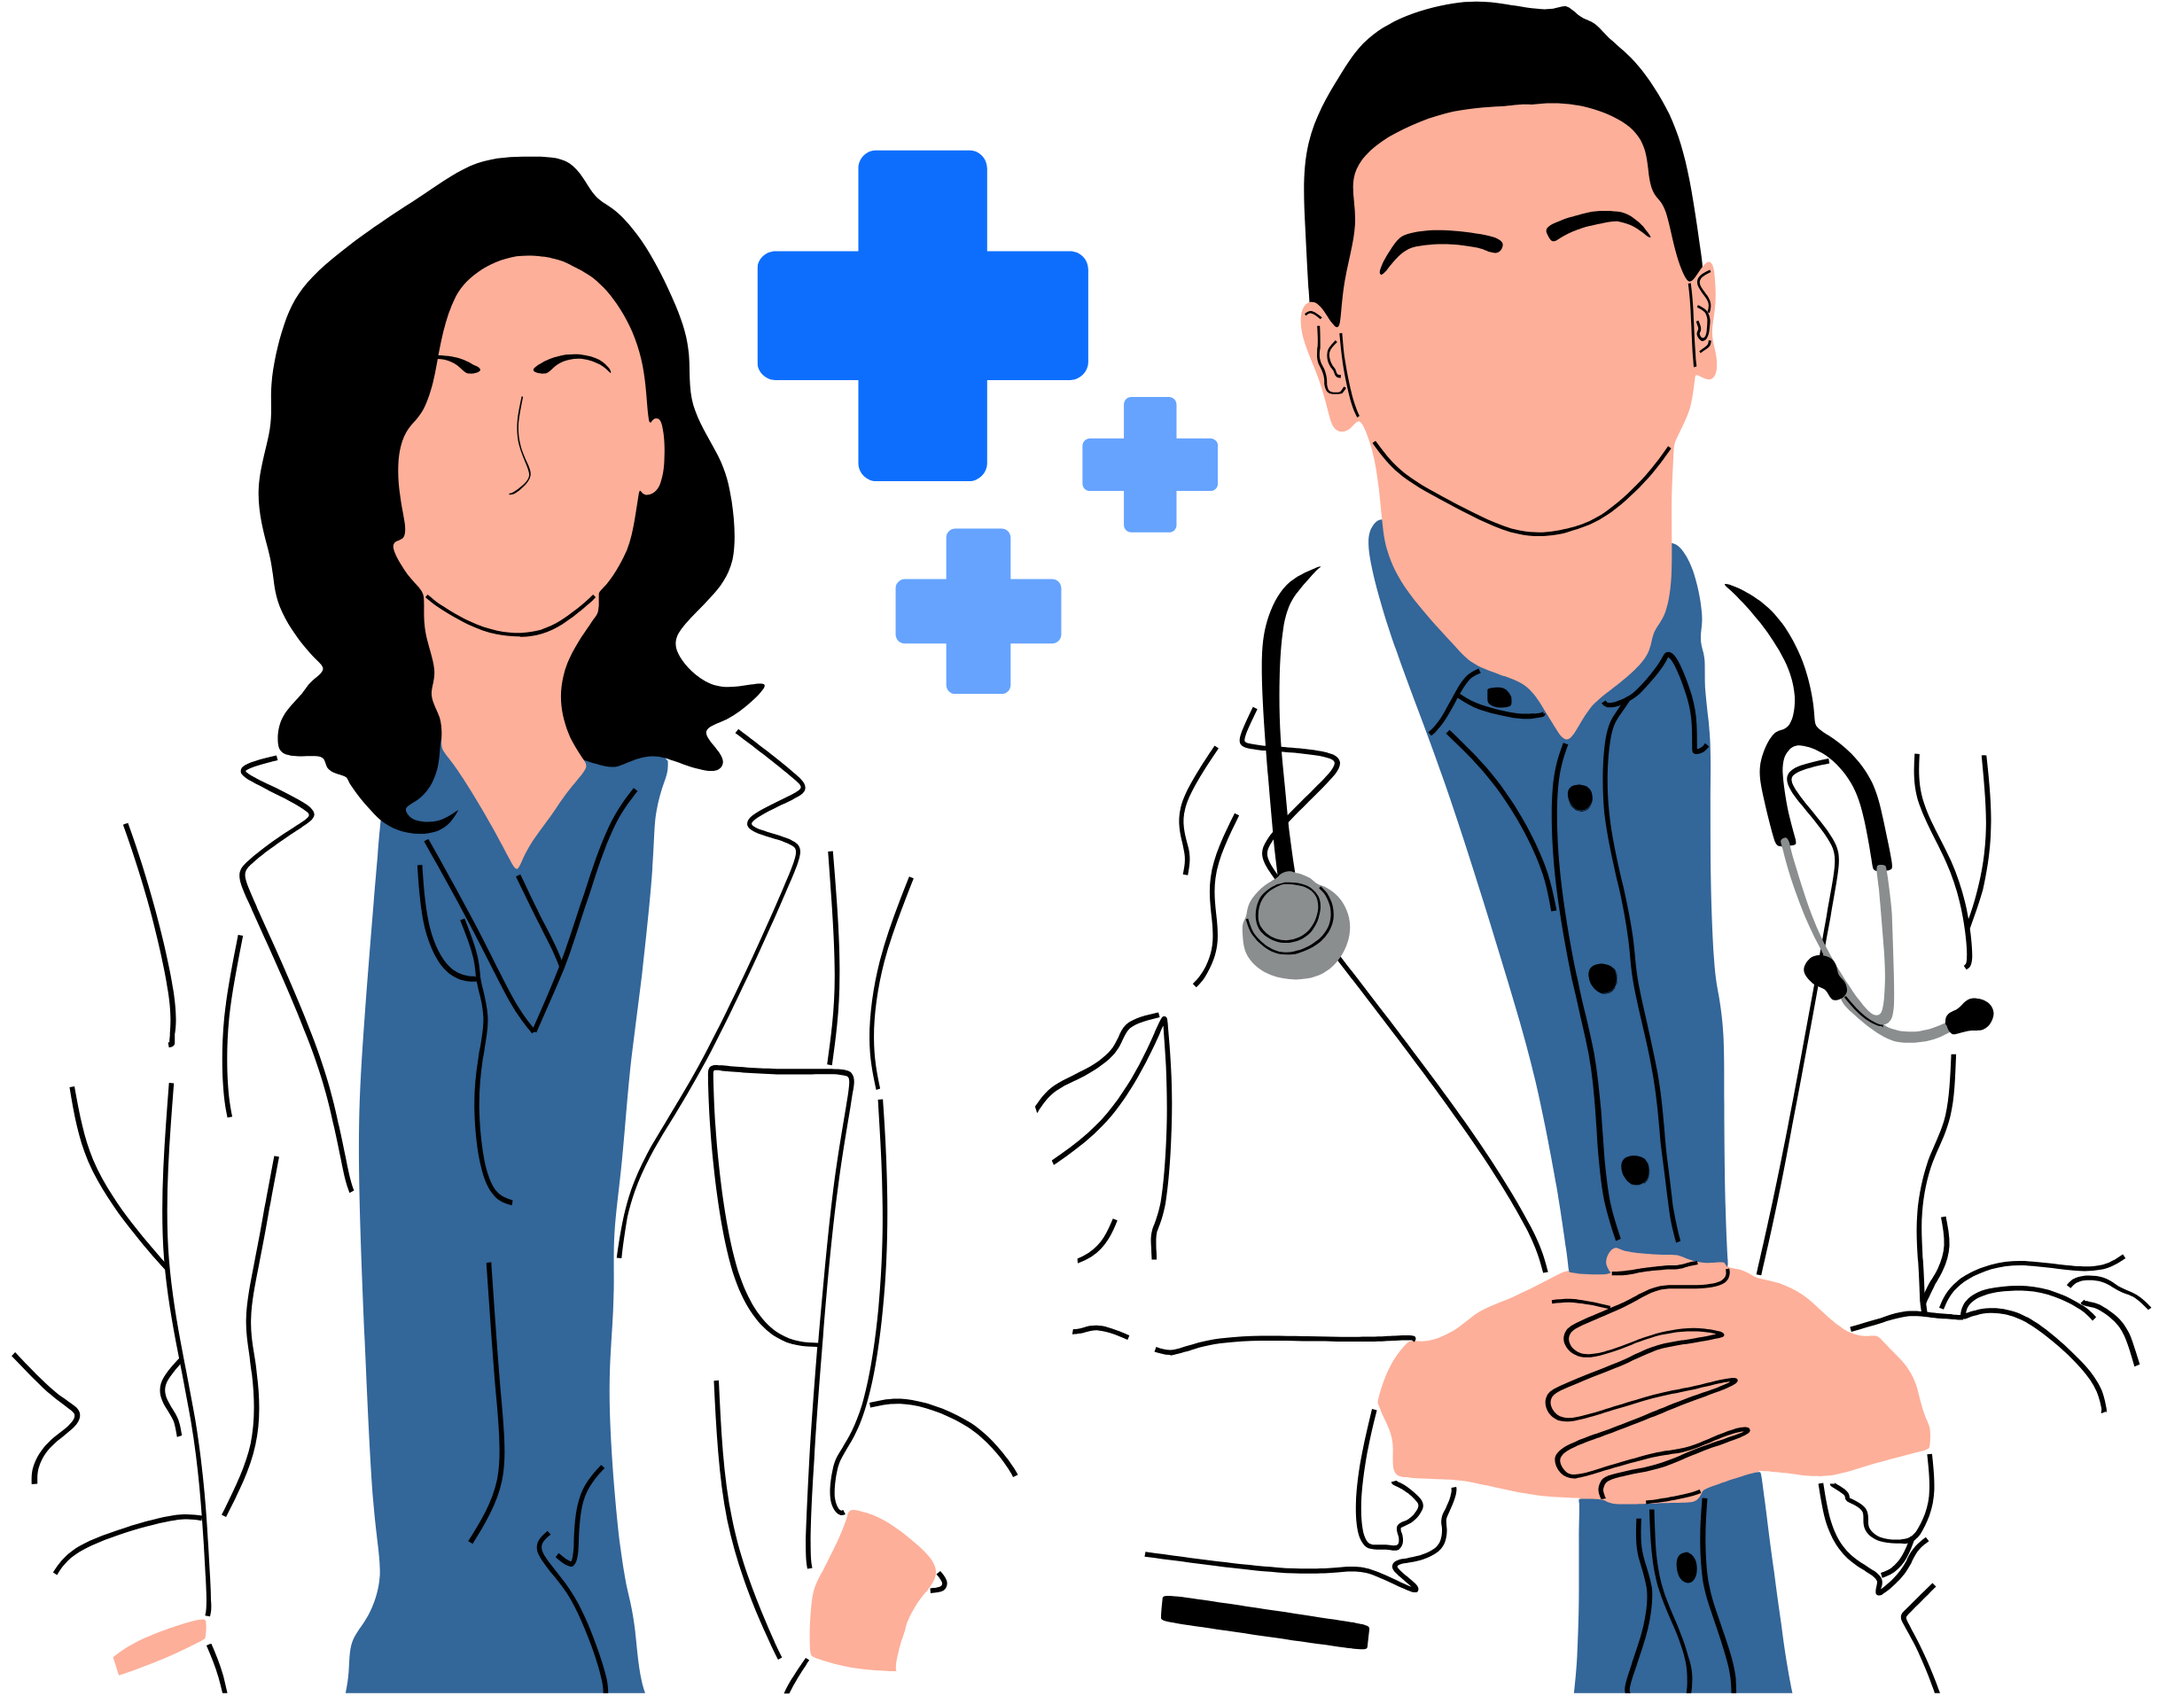
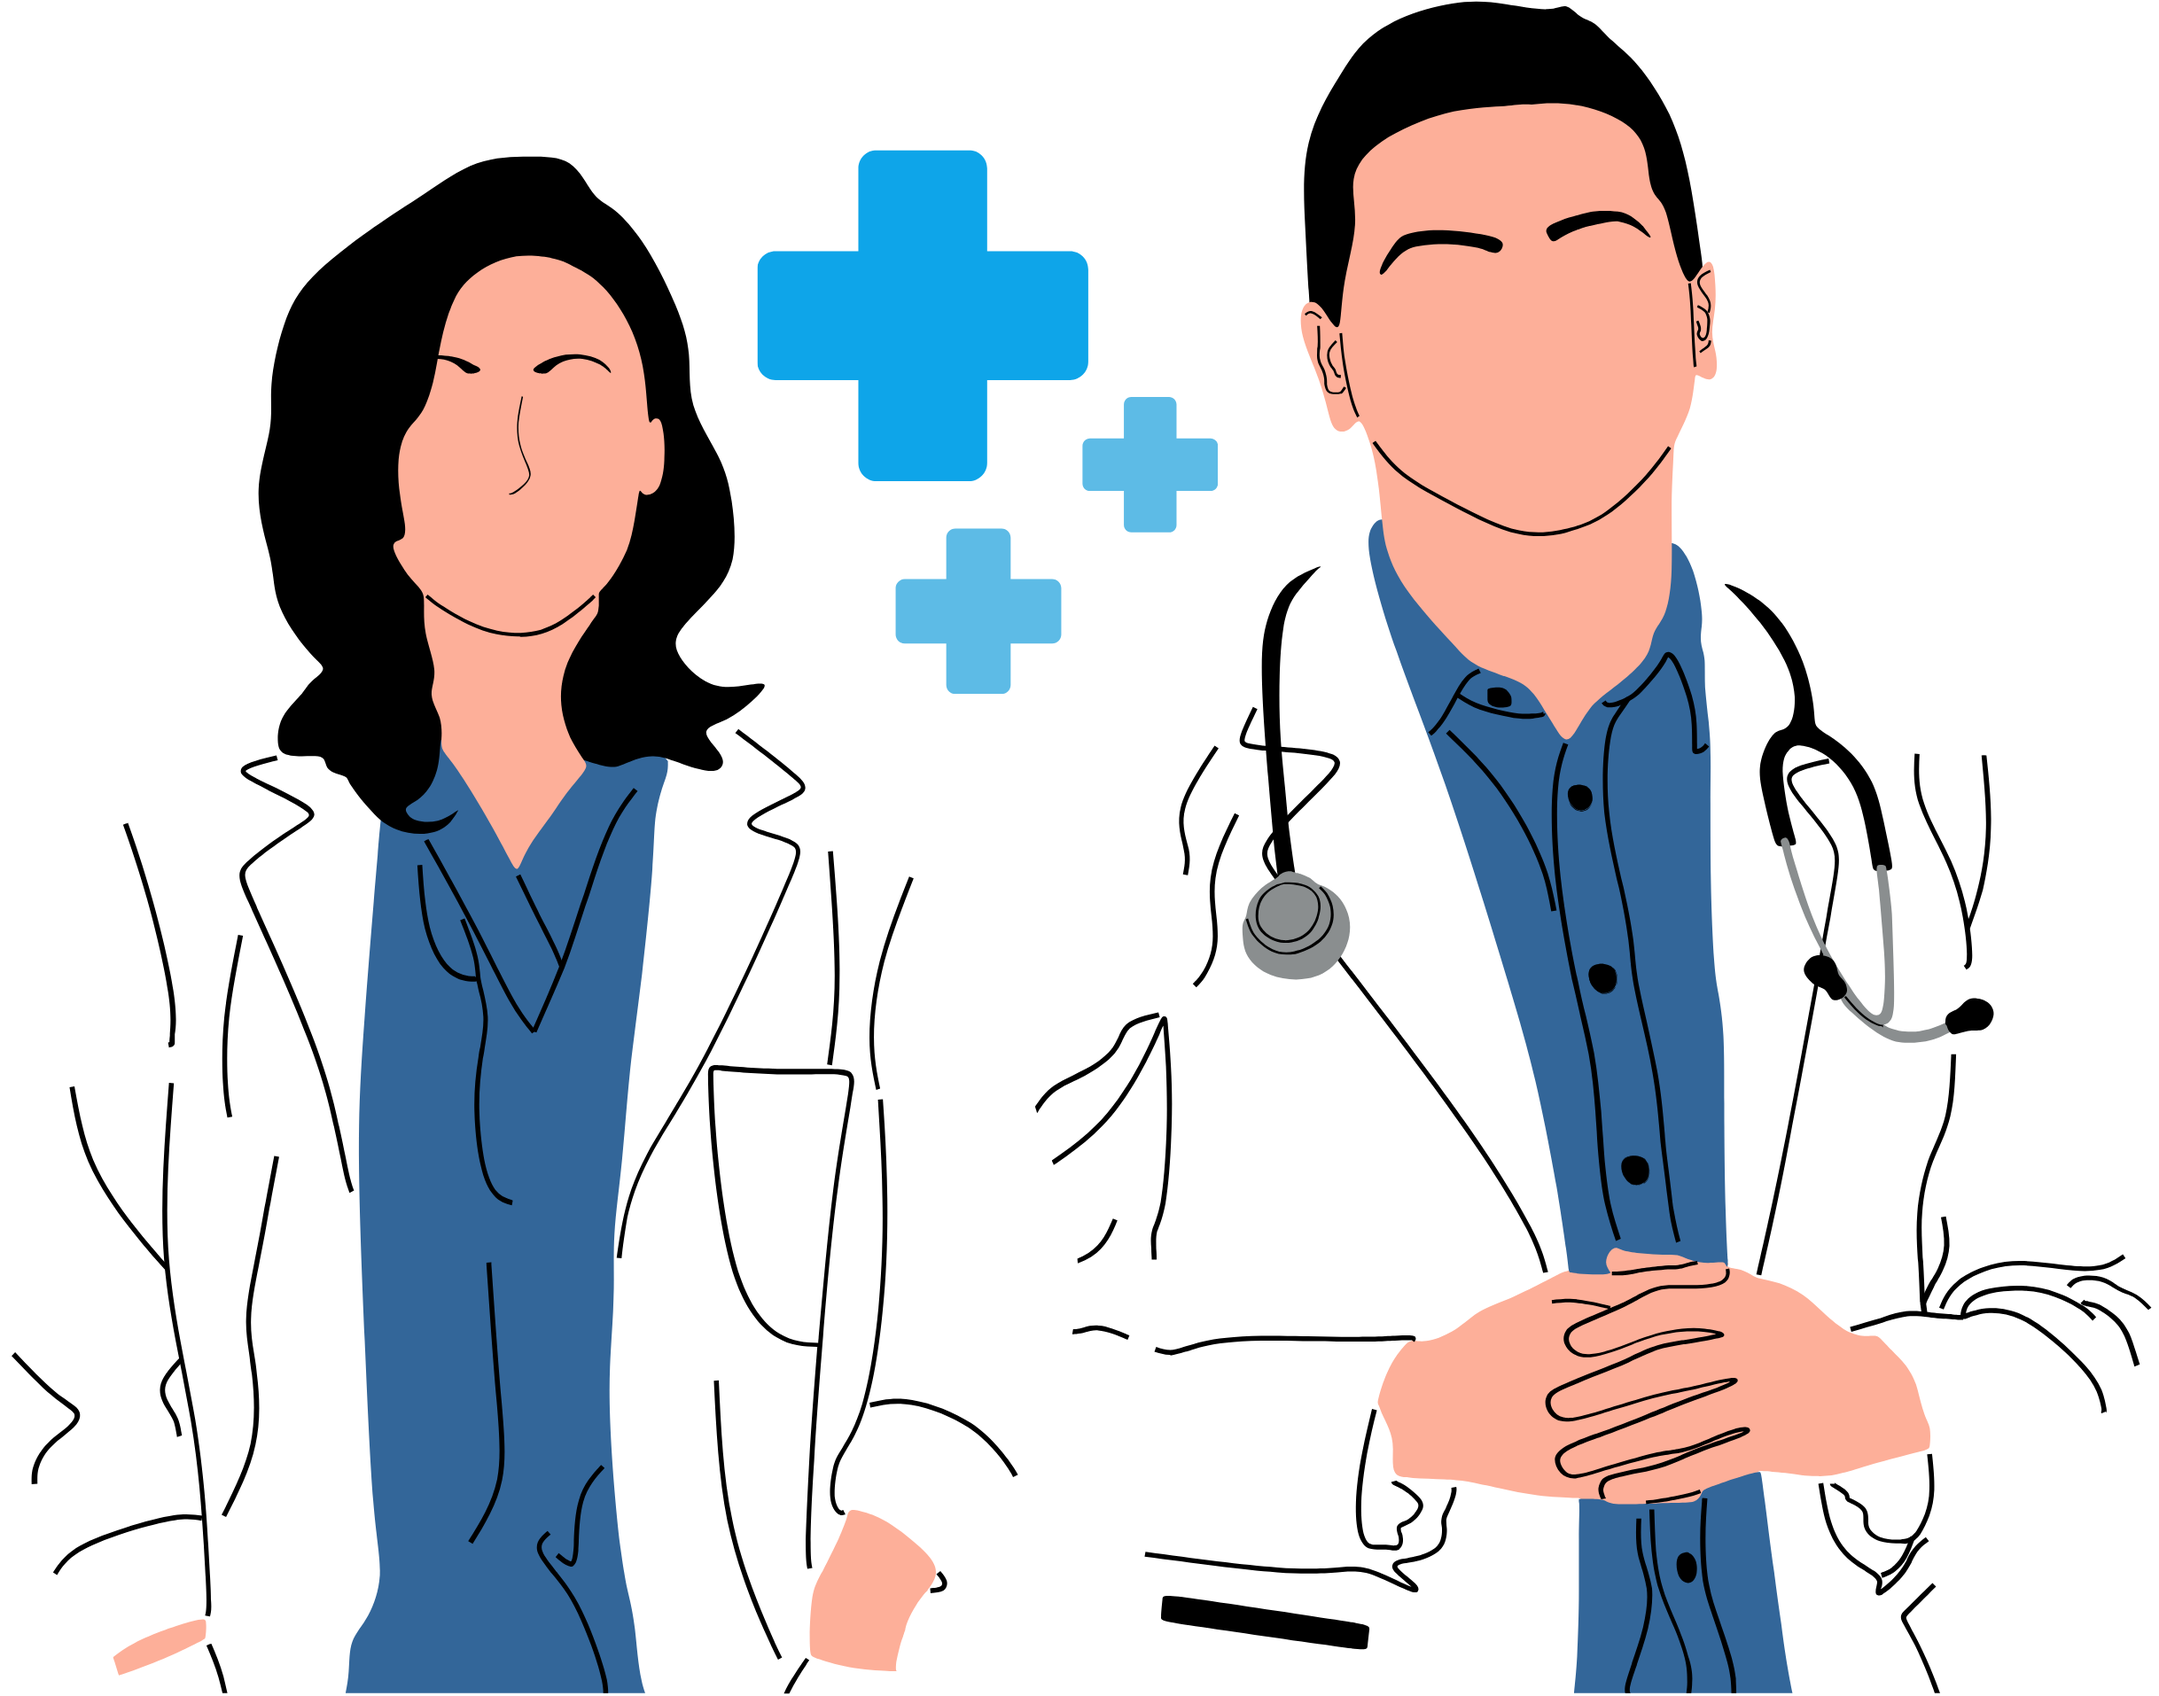
Posttest 1

Changed region(s): [[0.3432, 0.0617, 0.5616, 0.4316]]

diff --git a/XXX/MCU/templates/MCU/contact.html b/XXX/MCU/templates/MCU/contact.html
@@ -40,33 +40,33 @@ Contact - Medical Check UP PT XXX
                 </div>
                 <h4 class="text-center border-bottom border-dark pt-2 pb-3">Feel Free To Reach Out</h4>
                 <div class="d-flex pt-4 flex-wrap justify-content-center gap-3">
-                    <a href="mailto:anharkhoirun@gmail.com" class="rounded-circle px-2 d-flex align-items-center py-2 btn btn-outline-dark">
+                    <a href="mailto:anharkhoirun@gmail.com" class="rounded-circle px-2 d-flex align-items-center py-2 btn btn-outline-primary">
                         <svg width="20" fill="currentcolor" viewBox="0 0 24 24">
                             <path d="M12 12.713l-11.985-9.713h23.97l-11.985 9.713zm0 2.574l-12-9.725v15.438h24v-15.438l-12 9.725z" />
                         </svg>
                     </a>
-                    <a href="https://www.linkedin.com/in/anhar-khoirun-najib-96956621a/" class="rounded-circle px-2 d-flex align-items-center py-2 btn btn-outline-dark">
+                    <a href="https://www.linkedin.com/in/anhar-khoirun-najib-96956621a/" class="rounded-circle px-2 d-flex align-items-center py-2 btn btn-outline-primary">
                         <svg width="20" fill="currentcolor" viewBox="0 0 24 24">
                             <path d="M4.98 3.5c0 1.381-1.11 2.5-2.48 2.5s-2.48-1.119-2.48-2.5c0-1.38 1.11-2.5 2.48-2.5s2.48 1.12 2.48 2.5zm.02 4.5h-5v16h5v-16zm7.982 0h-4.968v16h4.969v-8.399c0-4.67 6.029-5.052 6.029 0v8.399h4.988v-10.131c0-7.88-8.922-7.593-11.018-3.714v-2.155z" />
                         </svg>
                     </a>
-                    <a href="https://github.com/Anhar12" class="rounded-circle px-2 d-flex align-items-center py-2 btn btn-outline-dark">
+                    <a href="https://github.com/Anhar12" class="rounded-circle px-2 d-flex align-items-center py-2 btn btn-outline-primary">
                         <svg width="20" fill="currentcolor" viewBox="0 0 24 24">
                             <path d="M12 0c-6.626 0-12 5.373-12 12 0 5.302 3.438 9.8 8.207 11.387.599.111.793-.261.793-.577v-2.234c-3.338.726-4.033-1.416-4.033-1.416-.546-1.387-1.333-1.756-1.333-1.756-1.089-.745.083-.729.083-.729 1.205.084 1.839 1.237 1.839 1.237 1.07 1.834 2.807 1.304 3.492.997.107-.775.418-1.305.762-1.604-2.665-.305-5.467-1.334-5.467-5.931 0-1.311.469-2.381 1.236-3.221-.124-.303-.535-1.524.117-3.176 0 0 1.008-.322 3.301 1.23.957-.266 1.983-.399 3.003-.404 1.02.005 2.047.138 3.006.404 2.291-1.552 3.297-1.23 3.297-1.23.653 1.653.242 2.874.118 3.176.77.84 1.235 1.911 1.235 3.221 0 4.609-2.807 5.624-5.479 5.921.43.372.823 1.102.823 2.222v3.293c0 .319.192.694.801.576 4.765-1.589 8.199-6.086 8.199-11.386 0-6.627-5.373-12-12-12z" />
                         </svg>
                     </a>
-                    <a href="https://wa.me/085845723207" class="rounded-circle px-2 d-flex align-items-center py-2 btn btn-outline-dark">
+                    <a href="https://wa.me/085845723207" class="rounded-circle px-2 d-flex align-items-center py-2 btn btn-outline-primary">
                         <svg width="20" fill="currentcolor" viewBox="0 0 24 24">
                             <path
                                 d="M.057 24l1.687-6.163c-1.041-1.804-1.588-3.849-1.587-5.946.003-6.556 5.338-11.891 11.893-11.891 3.181.001 6.167 1.24 8.413 3.488 2.245 2.248 3.481 5.236 3.48 8.414-.003 6.557-5.338 11.892-11.893 11.892-1.99-.001-3.951-.5-5.688-1.448l-6.305 1.654zm6.597-3.807c1.676.995 3.276 1.591 5.392 1.592 5.448 0 9.886-4.434 9.889-9.885.002-5.462-4.415-9.89-9.881-9.892-5.452 0-9.887 4.434-9.889 9.884-.001 2.225.651 3.891 1.746 5.634l-.999 3.648 3.742-.981zm11.387-5.464c-.074-.124-.272-.198-.57-.347-.297-.149-1.758-.868-2.031-.967-.272-.099-.47-.149-.669.149-.198.297-.768.967-.941 1.165-.173.198-.347.223-.644.074-.297-.149-1.255-.462-2.39-1.475-.883-.788-1.48-1.761-1.653-2.059-.173-.297-.018-.458.13-.606.134-.133.297-.347.446-.521.151-.172.2-.296.298-.495.099-.198.05-.372-.025-.521-.075-.148-.669-1.611-.916-2.206-.242-.579-.487-.501-.669-.51l-.57-.01c-.198 0-.52.074-.792.372s-1.04 1.016-1.04 2.479 1.065 2.876 1.213 3.074c.149.198 2.095 3.2 5.076 4.487.709.306 1.263.489 1.694.626.712.226 1.36.194 1.872.118.571-.085 1.758-.719 2.006-1.413.248-.695.248-1.29.173-1.414z" />
                         </svg>
                     </a>
-                    <a href="https://www.instagram.com/anharrrrrr_" class="rounded-circle px-2 d-flex align-items-center py-2 btn btn-outline-dark">
+                    <a href="https://www.instagram.com/anharrrrrr_" class="rounded-circle px-2 d-flex align-items-center py-2 btn btn-outline-primary">
                         <svg width="20" fill="currentcolor" viewBox="0 0 24 24">
                             <path d="M12 2.163c3.204 0 3.584.012 4.85.07 3.252.148 4.771 1.691 4.919 4.919.058 1.265.069 1.645.069 4.849 0 3.205-.012 3.584-.069 4.849-.149 3.225-1.664 4.771-4.919 4.919-1.266.058-1.644.07-4.85.07-3.204 0-3.584-.012-4.849-.07-3.26-.149-4.771-1.699-4.919-4.92-.058-1.265-.07-1.644-.07-4.849 0-3.204.013-3.583.07-4.849.149-3.227 1.664-4.771 4.919-4.919 1.266-.057 1.645-.069 4.849-.069zm0-2.163c-3.259 0-3.667.014-4.947.072-4.358.2-6.78 2.618-6.98 6.98-.059 1.281-.073 1.689-.073 4.948 0 3.259.014 3.668.072 4.948.2 4.358 2.618 6.78 6.98 6.98 1.281.058 1.689.072 4.948.072 3.259 0 3.668-.014 4.948-.072 4.354-.2 6.782-2.618 6.979-6.98.059-1.28.073-1.689.073-4.948 0-3.259-.014-3.667-.072-4.947-.196-4.354-2.617-6.78-6.979-6.98-1.281-.059-1.69-.073-4.949-.073zm0 5.838c-3.403 0-6.162 2.759-6.162 6.162s2.759 6.162 6.162 6.162 6.162-2.759 6.162-6.162c0-3.403-2.759-6.162-6.162-6.162zm0 10.162c-2.209 0-4-1.79-4-4 0-2.209 1.791-4 4-4s4 1.791 4 4c0 2.21-1.791 4-4 4zm6.406-11.845c-.796 0-1.441.645-1.441 1.44s.645 1.44 1.441 1.44c.795 0 1.439-.645 1.439-1.44s-.644-1.44-1.439-1.44z" />
                         </svg>
                     </a>
-                    <a href="https://www.facebook.com/anhar.najib" class="rounded-circle px-2 d-flex align-items-center py-2 btn btn-outline-dark">
+                    <a href="https://www.facebook.com/anhar.najib" class="rounded-circle px-2 d-flex align-items-center py-2 btn btn-outline-primary">
                         <svg width="20" fill="currentcolor" viewBox="0 0 24 24">
                             <path d="M9 8h-3v4h3v12h5v-12h3.642l.358-4h-4v-1.667c0-.955.192-1.333 1.115-1.333h2.885v-5h-3.808c-3.596 0-5.192 1.583-5.192 4.615v3.385z" />
                         </svg>

diff --git a/XXX/MCU/static/MCU/css/custom.css b/XXX/MCU/static/MCU/css/custom.css
@@ -2,6 +2,32 @@ body {
     font-family: Arial, sans-serif;
 }
 
+.bg-primary {
+    background: rgb(14 165 233) !important;
+}
+
+.text-primary {
+    color: rgb(14 165 233) !important;
+}
+
+.border-primary {
+    border-color: rgb(14 165 233) !important;
+}
+
+.btn-outline-primary {
+    border-color: rgb(14 165 233) !important;
+    color: rgb(14 165 233) !important;
+}
+
+.btn-outline-primary:hover {
+    background: rgb(14 165 233) !important;
+    color: var(--bs-light) !important;
+}
+
+.btn-outline-light:hover {
+    color: rgb(14 165 233) !important; 
+}
+
 .navbar .nav-link {
     position: relative;
     display: inline-block;
@@ -63,7 +89,7 @@ body {
     bottom: 0;
     left: 0;
     right: 0;
-    background-color: #0d6efd; /* Primary color */
+    background-color: rgb(14 165 233); /* Primary color */
     color: #fff;
     transition: transform 0.4s ease;
     transform: translateY(74%);
@@ -107,7 +133,7 @@ body {
 }
 
 .shadow-btn {
-    box-shadow: -2px 3px 0 0 #0D6EFD;
+    box-shadow: -2px 3px 0 0 rgb(14 165 233);
 }
 
 .shadow-btn:hover {

diff --git a/XXX/MCU/templates/MCU/base.html b/XXX/MCU/templates/MCU/base.html
@@ -67,7 +67,7 @@
     <!-- footer start -->
     <footer class="py-4 bg-primary">
         <div class="container">
-            <div class="d-flex flex-md-row flex-column py-5 border-bottom gap-5 justify-content-between mb-4">
+            <div class="d-flex flex-md-row flex-column py-3 border-bottom gap-5 justify-content-between mb-4">
                 <div class="mb-3 d-flex justify-content-center align-items-center">
                     <a href="{% url 'home' %}">
                         <img src="static/MCU/images/Logo.png" alt="Logo XXX" width="200px">
